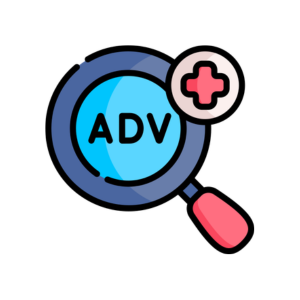
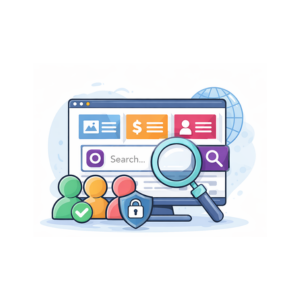
[ADD] added tus_smart_global_search module in version 18

diff --git a/riyan/v18/tus_smart_global_search/static/description/index.html b/riyan/v18/tus_smart_global_search/static/description/index.html
@@ -42,18 +42,24 @@
                     style="font-family: Montserrat;color:#fff !important; font-size:70px; text-align:center;margin-bottom: 9px;">
               <span class="themeColor"
                     style="color:#000000 !important; font-weight:600 !important; font-size:48px !important">
-                    Advanced Odoo Search | Global &amp; User Based Control
+                    Global Search Pro for Odoo - Multi-Model Search &amp; User Access Control
               </span>
                 </h2>
                 <p style="font-family: Montserrat;font-family: Montserrat;color:#000000; text-align:center; font-size:18px">
 
-                    Access business data faster and more efficiently with a centralized search system designed for
-                    modern Odoo environments.<br/>
-
-                    This module introduces a powerful global search interface that allows users to search across
-                    multiple models from a single entry point, eliminating the need for manual navigation between menus
-                    and applications.
-
+                    Global Search for Odoo adds a systray search so users can find contacts, quotations, sales orders,
+                    purchase orders, invoices, products, and other records that share mail thread / activity—from one
+                    place, without opening each app first.<br/>
+                    Per-user control: administrators can limit which models appear in search for each user (Global
+                    Search Models on the user form). When set, suggestion shortcuts and results follow that list so
+                    teams only see what they’re allowed to search.<br/>
+                    Productivity: quick browse shortcuts for common record types (where configured), keyword
+                    highlighting in results, favourites, recent searches, often opened shortcuts, open in new tab, and a
+                    clear empty state when nothing matches.
+                </p>
+                <p style="font-family: Montserrat;font-family: Montserrat;color:#000000; text-align:center; font-size:18px">
+                    Ideal for sales, accounting, and operations teams that work across CRM, Sales, Purchase, Invoicing,
+                    and Contacts and want a faster, controlled search experience in Odoo.
                 </p>
 
                 <div class="text-center d-flex flex-column justify-content-center align-items-center"
@@ -92,15 +98,15 @@
                         &#9654;&nbsp; Watch Module Demo
                     </h4>
                     <p style="font-family: Montserrat; font-size: 15px; color: #555555; margin-bottom: 24px; line-height: 1.6;">
-                        See how Advanced Odoo Search | Global &amp; User-Based Control
+                        See how Global Search Pro for Odoo - Multi-Model Search &amp; User Access Control
 
                     </p>
 
                     <!-- Clickable YouTube Thumbnail -->
-                    <a href="https://www.youtube.com/watch?v=-Fj0jWZxP6s" target="_blank"
+                    <a href="https://www.youtube.com/watch?v=wmDjUH7ijIs" target="_blank"
                        style="display: block; max-width: 820px; margin: 0 auto; border-radius: 12px; overflow: hidden; box-shadow: 0 8px 30px rgba(0,0,0,0.15); border: 2px solid #27AAE1; text-decoration: none; position: relative;">
 
-                        <img src="https://img.youtube.com/vi/-Fj0jWZxP6s/hqdefault.jpg"
+                        <img src="https://img.youtube.com/vi/wmDjUH7ijIs/hqdefault.jpg"
                              alt="Watch Module Demo on YouTube"
                              style="width: 100%; display: block; border-radius: 10px;">
 
@@ -115,7 +121,7 @@
 
                     <!-- Watch on YouTube button matching page style -->
                     <div style="margin-top: 20px;">
-                        <a href="https://www.youtube.com/watch?v=-Fj0jWZxP6s" target="_blank"
+                        <a href="https://www.youtube.com/watch?v=wmDjUH7ijIs" target="_blank"
                            style="background-color: #27AAE1; border-radius: 35px; display: inline-block; padding: 9px 30px; font-weight: 600; border: 1px solid #27AAE1; text-decoration: none;">
                             <span style="font-family: Montserrat; color: #fff; font-size: 15px;">&#9654;&nbsp; Watch on YouTube</span>
                         </a>
@@ -174,43 +180,43 @@
                                             style="font-family: Montserrat;padding:20px; margin-bottom:20px; font-size:16px; color:#212121; font-weight:600; letter-spacing:1px; display:block; border-radius:0.25rem !important">
                                             <span class="fa fa-check"
                                                   style="color:#3363c1; font-weight:600; font-size:18px; padding-right:10px"></span>
-                                            Centralized Global Search
+                                            Centralized global search
                                         </li>
                                         <li class="shadow rounded"
                                             style="font-family: Montserrat;padding:20px; margin-bottom:20px; font-size:16px; color:#212121; font-weight:600; letter-spacing:1px; display:block; border-radius:0.25rem !important">
                                             <span class="fa fa-check"
                                                   style="color:#3363c1; font-weight:600; font-size:18px; padding-right:10px"></span>
-                                            Multi-Model Search Engine
+                                            Multi-model search engine
                                         </li>
                                         <li class="shadow rounded"
                                             style="font-family: Montserrat;padding:20px; margin-bottom:20px; font-size:16px; color:#212121; font-weight:600; letter-spacing:1px; display:block; border-radius:0.25rem !important">
                                             <span class="fa fa-check"
                                                   style="color:#3363c1; font-weight:600; font-size:18px; padding-right:10px"></span>
-                                            Smart Result Grouping
+                                            Smart result grouping
                                         </li>
                                         <li class="shadow rounded"
                                             style="font-family: Montserrat;padding:20px; margin-bottom:20px; font-size:16px; color:#212121; font-weight:600; letter-spacing:1px; display:block; border-radius:0.25rem !important">
                                             <span class="fa fa-check"
                                                   style="color:#3363c1; font-weight:600; font-size:18px; padding-right:10px"></span>
-                                            User-Based Model Configuration
+                                            User-based model configuration
                                         </li>
                                         <li class="shadow rounded"
                                             style="font-family: Montserrat;padding:20px; margin-bottom:20px; font-size:16px; color:#212121; font-weight:600; letter-spacing:1px; display:block; border-radius:0.25rem !important">
                                             <span class="fa fa-check"
                                                   style="color:#3363c1; font-weight:600; font-size:18px; padding-right:10px"></span>
-                                            Dual Search Mode (Global + User-Based)
+                                            Dual search mode: global scope + user rules
                                         </li>
                                         <li class="shadow rounded"
                                             style="font-family: Montserrat;padding:20px; margin-bottom:20px; font-size:16px; color:#212121; font-weight:600; letter-spacing:1px; display:block; border-radius:0.25rem !important">
                                             <span class="fa fa-check"
                                                   style="color:#3363c1; font-weight:600; font-size:18px; padding-right:10px"></span>
-                                            Instant Search with Optimized Performance
+                                            Fast, responsive search
                                         </li>
                                         <li class="shadow rounded"
                                             style="font-family: Montserrat;padding:20px; margin-bottom:20px; font-size:16px; color:#212121; font-weight:600; letter-spacing:1px; display:block; border-radius:0.25rem !important">
                                             <span class="fa fa-check"
                                                   style="color:#3363c1; font-weight:600; font-size:18px; padding-right:10px"></span>
-                                            Keyboard Navigation Support
+                                            Keyboard-friendly navigation
                                         </li>
 
                                         <li class="shadow rounded"
@@ -224,13 +230,13 @@
                                             style="font-family: Montserrat;padding:20px; margin-bottom:20px; font-size:16px; color:#212121; font-weight:600; letter-spacing:1px; display:block; border-radius:0.25rem !important">
                                             <span class="fa fa-check"
                                                   style="color:#3363c1; font-weight:600; font-size:18px; padding-right:10px"></span>
-                                            Image Preview Support
+                                            Image preview where available
                                         </li>
                                         <li class="shadow rounded"
                                             style="font-family: Montserrat;padding:20px; margin-bottom:20px; font-size:16px; color:#212121; font-weight:600; letter-spacing:1px; display:block; border-radius:0.25rem !important">
                                             <span class="fa fa-check"
                                                   style="color:#3363c1; font-weight:600; font-size:18px; padding-right:10px"></span>
-                                            Productivity Enhancement
+                                            Productivity for sales, ops, and finance
                                         </li>
 
 
@@ -244,11 +250,14 @@
                                         <h4>1. Global Search Engine.</h4>
                                         <p>
                                             After installing this module, a search icon will be displayed in the header.
-                                            Click on the icon to access and use the search functionality.
+                                            Click on the icon to access the search functionality. There, you will see a
+                                            model filter. By selecting Sale Order, you can view all related sale order
+                                            records. The Often Opened section displays the records you have
+                                            previously accessed.
 
                                         </p>
 
-                                        <img src="image/global_search.png" alt="" width="100%"
+                                        <img src="image/global_search_with_filter.png" alt="" width="100%"
                                                 style="border-radius: 10px; margin: 10px 0; border: 1px solid #faad18;">
 
                                     </div>
@@ -259,11 +268,11 @@
                                     <div style="padding:10px 15px 10px 15px; margin-top:5px; margin-left:5px;">
                                         <h4>2. Searching Model Records.</h4>
                                         <p>
-                                            Here, you can see that we searched for “des,” and all related records from
+                                            Here, you can see that we searched for des, and all related records from
                                             different models are retrieved and displayed in organized groups.
                                         </p>
 
-                                        <img src="image/global_searched.png" alt="" width="100%"
+                                        <img src="image/global_searched_with_pin_and_redirect.png" alt="" width="100%"
                                                 style="border-radius: 10px; margin: 10px 0; border: 1px solid #faad18;">
 
                                     </div>
@@ -309,7 +318,7 @@
                                             entry if needed.
                                         </p>
 
-                                        <img src="image/recent_history.png" alt="" width="100%"
+                                        <img src="image/recent_history_with_last_open.png" alt="" width="100%"
                                                 style="border-radius: 10px; margin: 10px 0; border: 1px solid #faad18;">
 
                                     </div>
@@ -323,7 +332,50 @@
                                             As configured, the search results now display records only from the Contact model.
                                         </p>
 
-                                        <img src="image/configure_mitchell_search.png" alt="" width="100%"
+                                        <img src="image/configure_mitchell_search_.png" alt="" width="100%"
+                                                style="border-radius: 10px; margin: 10px 0; border: 1px solid #faad18;">
+
+                                    </div>
+                                </div>
+
+                                <!-- 7. -->
+                                <div class="tus-section" style="margin-top:20px; border-radius: 10px; border: 1px solid #dddbd8; box-shadow: 0 4px 15px rgba(0,0,0,0.08);">
+                                    <div style="padding:10px 15px 10px 15px; margin-top:5px; margin-left:5px;">
+                                        <h4>7. Favourites Records.</h4>
+                                        <p>
+                                            Here, you can see that the Jackson Group record has been pinned as a favorite.
+                                        </p>
+
+                                        <img src="image/pin.png" alt="" width="100%"
+                                                style="border-radius: 10px; margin: 10px 0; border: 1px solid #faad18;">
+
+                                    </div>
+                                </div>
+
+                                <!-- 8. -->
+                                <div class="tus-section" style="margin-top:20px; border-radius: 10px; border: 1px solid #dddbd8; box-shadow: 0 4px 15px rgba(0,0,0,0.08);">
+                                    <div style="padding:10px 15px 10px 15px; margin-top:5px; margin-left:5px;">
+                                        <h4>8. Contact Filter.</h4>
+                                        <p>
+                                            All contact records are listed after applying the contact filter.
+                                        </p>
+
+                                        <img src="image/filter_by_contact_with_full_list.png" alt="" width="100%"
+                                                style="border-radius: 10px; margin: 10px 0; border: 1px solid #faad18;">
+
+                                    </div>
+                                </div>
+
+                                <!-- 9. -->
+                                <div class="tus-section" style="margin-top:20px; border-radius: 10px; border: 1px solid #dddbd8; box-shadow: 0 4px 15px rgba(0,0,0,0.08);">
+                                    <div style="padding:10px 15px 10px 15px; margin-top:5px; margin-left:5px;">
+                                        <h4>9. Full List of Filter.</h4>
+                                        <p>
+                                            Here, you can see that after filtering a contact and clicking on Open full
+                                            list in new tab, the contact modal opens in a new browser tab.
+                                        </p>
+
+                                        <img src="image/open_full_list.png" alt="" width="100%"
                                                 style="border-radius: 10px; margin: 10px 0; border: 1px solid #faad18;">
 
                                     </div>

diff --git a/riyan/v18/tus_smart_global_search/static/src/js/global_search.js b/riyan/v18/tus_smart_global_search/static/src/js/global_search.js
@@ -364,7 +364,7 @@ export class GlobalSearchPanel extends Component {
             this.state.loading = false;
             return;
         }
-        await this.loadConfigIfNeeded(true);
+        await this.loadConfigIfNeeded(false);
         if (!this.state.allowedModels.length) {
             this.state.groups = [];
             this.state.loading = false;
@@ -464,7 +464,7 @@ export class GlobalSearchPanel extends Component {
         if (this.inputRef.el) {
             this.inputRef.el.value = label;
         }
-        await this.loadConfigIfNeeded(true);
+        await this.loadConfigIfNeeded(false);
         if (!this.state.allowedModels.length) {
             this.state.loading = false;
             this.state.browseMode = false;

diff --git a/riyan/v18/tus_smart_global_search/controllers/main.py b/riyan/v18/tus_smart_global_search/controllers/main.py
@@ -127,10 +127,20 @@ def _effective_global_search_models(env, user):
     selected = user.global_search_model_ids.sorted("name")
     if selected:
         return selected
+
+    # Use a simple request-level cache to avoid redundant ir.model searches in the same request
+    if hasattr(request, "tus_global_search_models"):
+        return request.tus_global_search_models
+
     IrModel = env["ir.model"].sudo()
     out = env["ir.model"].browse()
+    
+    # Search all fallback models at once instead of in a loop
+    ims = IrModel.search([("model", "in", _FALLBACK_GLOBAL_SEARCH_MODELS)])
+    model_to_im = {m.model: m for m in ims}
+
     for name in _FALLBACK_GLOBAL_SEARCH_MODELS:
-        im = IrModel.search([("model", "=", name)], limit=1)
+        im = model_to_im.get(name)
         if not im:
             continue
         try:
@@ -140,6 +150,8 @@ def _effective_global_search_models(env, user):
         if not getattr(Model, "_auto", False) or not _model_can_read(Model):
             continue
         out |= im
+    
+    request.tus_global_search_models = out
     return out
 
 
@@ -225,10 +237,10 @@ class GlobalSearchController(http.Controller):
             if not records:
                 return {"groups": []}
 
-            has_image = "image_1920" in Model._fields
-            fields_to_read = ["display_name", "id"]
-            if has_image:
-                fields_to_read.append("image_1920")
+            # Optimization: Never read binary fields (image_1920) in search results.
+            # It's an order of magnitude faster to let the browser load them as needed.
+            has_image_field = "image_128" in Model._fields or "image_1920" in Model._fields
+            fields_to_read = ["display_name"]
 
             try:
                 rows = records.read(fields_to_read)
@@ -241,7 +253,7 @@ class GlobalSearchController(http.Controller):
                 results.append({
                     "id": row["id"],
                     "display_name": row["display_name"] or "",
-                    "has_image": bool(has_image and row.get("image_1920")),
+                    "has_image": bool(has_image_field),
                 })
 
             ir_rec = request.env["ir.model"].sudo().search([("model", "=", model)], limit=1)
@@ -401,10 +413,10 @@ class GlobalSearchController(http.Controller):
                 if not records:
                     continue
 
-                has_image = "image_1920" in Model._fields
-                fields_to_read = ["display_name", "id"]
-                if has_image:
-                    fields_to_read.append("image_1920")
+                # Optimization: Never read binary fields (image_1920) in search results.
+                # It's an order of magnitude faster to let the browser load them as needed.
+                has_image_field = "image_128" in Model._fields or "image_1920" in Model._fields
+                fields_to_read = ["display_name"]
 
                 try:
                     rows = records.read(fields_to_read)
@@ -417,7 +429,7 @@ class GlobalSearchController(http.Controller):
                     results.append({
                         "id": row["id"],
                         "display_name": row["display_name"] or "",
-                        "has_image": bool(has_image and row.get("image_1920")),
+                        "has_image": bool(has_image_field),
                     })
 
                 groups.append({

diff --git a/riyan/v18/tus_smart_global_search/__manifest__.py b/riyan/v18/tus_smart_global_search/__manifest__.py
@@ -1,6 +1,6 @@
 # Part of Techultra Solutions. See LICENSE file for full copyright and licensing details.
 {
-    "name": "Advanced Odoo Search | Global & User Based Control",
+    "name": "Global Search Pro for Odoo - Multi-Model Search &amp; User Access Control",
     "version": "18.0.0.0",
     "category": "Productivity",
     'author': 'TechUltra Solutions Private Limited',

diff --git a/riyan/v18/tus_smart_global_search/README.md b/riyan/v18/tus_smart_global_search/README.md
@@ -1,4 +1,4 @@
-# Advanced Odoo Search | Global & User Based Control
+# Global Search Pro for Odoo - Multi-Model Search &amp; User Access Control
 
 Modern and efficient Global Search for Odoo. Search across multiple models from one place, with grouped results, keyboard navigation, recent searches, and record images.
 
@@ -36,11 +36,11 @@ Where `tus_smart_global_search` is at `/path/to/project/tus_smart_global_search`
 - Go to **Apps**.
 - Remove the "Apps" filter (if applied).
 - Click **Update Apps List** (if you don’t see the module).
-- Search for **Advanced Odoo Search | Global & User Based Control**.
+- Search for **Global Search Pro for Odoo - Multi-Model Search &amp; User Access Control**.
 
 ### 3. Install the module
 
-- Open the **Advanced Odoo Search | Global & User Based Control** module card.
+- Open the **Global Search Pro for Odoo - Multi-Model Search &amp; User Access Control** module card.
 - Click **Install**.
 
 No extra configuration is required. The search icon appears in the top bar (systray) for all backend users.
